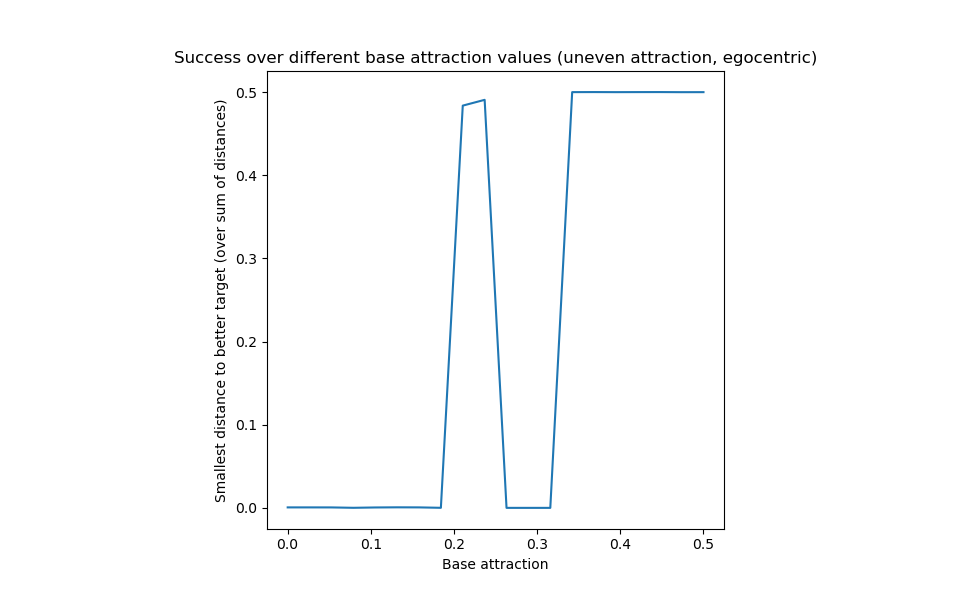
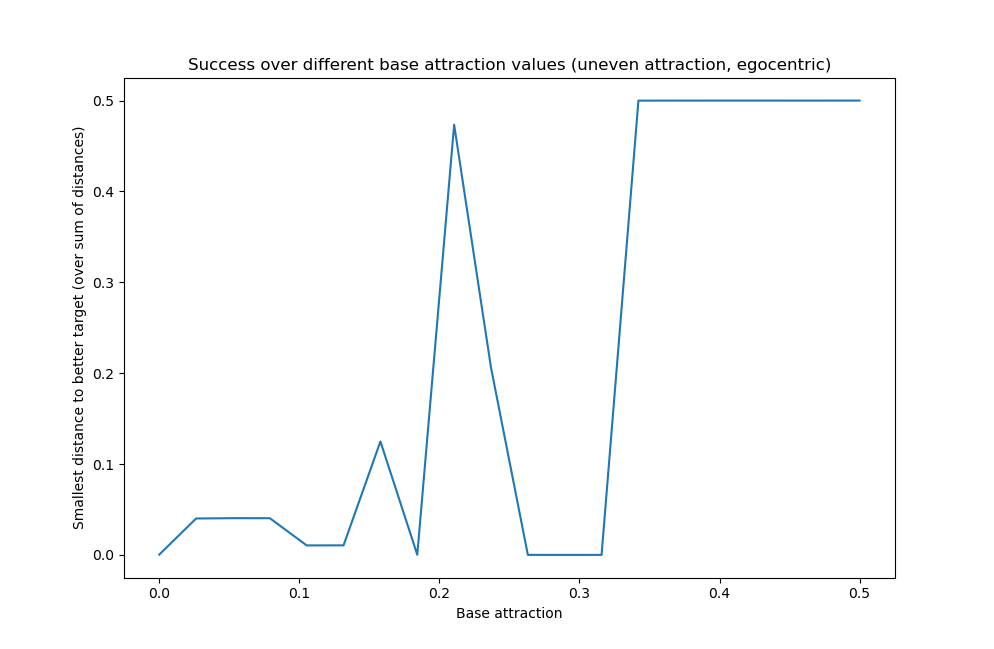
a few more plots

diff --git a/simulations.py b/simulations.py
@@ -84,7 +84,7 @@ allocentricFlag = [0]
 # attraction vector, first are attraction for targets, then agents
 h0s = [[0.45,0.46]]
 
-h_b = [0.2,0.21,0.22,0.23,0.24,0.25]
+h_b = [0.27,0.29,0.31,0.33,0.35,0.37]
 
 # width of the gauss bump 
 sigma = [0.5]
@@ -105,62 +105,46 @@ decision2_time = []
 # number of times to run the simulation
 n_samples = 20
 
+# controls whether or not we plot trajectories
+plot_traj = True
 # -------- Running the simulation --------
 
 # this is running the sim with a bunch of changes in variables
-
-plt.figure(1)
-plt.xlim(0, L)
-plt.ylim(0, L)
+x_trajs = np.zeros((6,51))
+y_trajs = np.zeros((6,51))
 for orientation in range(len(allocentricFlag)):
     for h in range(len(h0s)):
         h0 = h0s[h]
         for hb in range(len(h_b)):
-            plot_col = 'powderblue'
-            if hb == 1:
-                plot_col = 'deepskyblue'
-            if hb == 2:
-                plot_col = 'blue'
-            if hb == 3:
-                plot_col = 'navy'
-            if hb == 4:
-                plot_col = 'slateblue'
-            if hb == 5: 
-                plot_col = 'darkviolet'
             for s in range(len(sigma)):
                 for b in range(len(beta)):
-                    x_sums = np.zeros((1,51))
-                    y_sums = np.zeros((1,51))
+                    if plot_traj == True:
+                        x_sums = np.zeros((1,51))
+                        y_sums = np.zeros((1,51))
                     min_distance = []
                     for sim in range(n_samples):
-                        print(sim)
+                        print(f"sample number: {sim}")
                         headings, xPos, yPos, targetsx, targetsy = simulate_ringattractor.simulate_ring_attractor(N,L,T,ntargets,nagents,allocentricFlag[orientation],periodicflag,rEgo,rEgoTarget,Egonumber,
                                     distf,adistf,J,beta[b],h0,h_b[hb],dt,v0,v0t,sigma[s],hColl,rColl,
                                     initialx,initialy,initialxt,initialyt,False,False)
-                        success_measure = simulation_metrics.better_min_distance(xPos, yPos, targetsx, targetsy, True, 1)
-                        x_sliced = xPos[:,::100]
-                        y_sliced = yPos[:,::100]
-                        x_sums = x_sums + x_sliced
-                        y_sums = y_sums + y_sliced
+                        success_measure = simulation_metrics.get_min_distance(xPos, yPos, targetsx, targetsy, True, 1)
+                        if plot_traj == True:
+                            x_sliced = xPos[:,::100]
+                            y_sliced = yPos[:,::100]
+                            x_sums = x_sums + x_sliced
+                            y_sums = y_sums + y_sliced
                         min_distance.append(success_measure)
                     mean_distance.append(np.mean(min_distance))
-                    plt.scatter(
-                        x_sums/n_samples,
-                        y_sums/n_samples,
-                        s = 10,
-                        color = plot_col
-                    )
+            if plot_traj == True:
+                x_trajs[hb,:] = x_sums/n_samples
+                y_trajs[hb,:] = y_sums/n_samples
 
-                    plt.scatter(
-                        targetsx[:, 0],
-                        targetsy[:, 0],
-                        s = 10,
-                        marker = 's',
-                        c = [[0.8, 0, 0.2]], 
-                    )
-                    plt.title(f"Average trajectories: Allocentric:{allocentricFlag}, h0:{h0}, hb: {h_b}, beta: {beta}, sigma: {sigma}")
-                    plt.show(block=False)
-                    plt.pause(0.001)  
+# plotting the trajectories over a certain number of samples
+if plot_traj == True:
+    plt.figure(1)
+    simulation_metrics.plot_trajectories(x_trajs,y_trajs,initialxt,initialyt,
+                                     ['powderblue','deepskyblue','blue','navy','slateblue','darkviolet'],L,
+                                     "Average trajectories across hb values from 0.27 to 0.37 from 20 samples")
 
 
 # plot x axis as param of interest, plot y axis as success measure

diff --git a/simulation_metrics.py b/simulation_metrics.py
@@ -1,5 +1,6 @@
 import numpy as np
 from scipy.signal import find_peaks
+import matplotlib.pyplot as plt
 
 # -------- Getting metrics --------
 
@@ -90,39 +91,42 @@ def get_direction_info(headings, n_peaks, start_step=200, dest_step=5000):
     '''
     return top_n_peaks
 
-def get_min_distance(xPos, yPos, targetXpos, targetYpos, uneven=False, better_ind=-1):
-    '''
-    a function which takes the positions of the agent and targets
-    and computes the distance to each target at each step
-    and finds the minimum over all time steps of the minimum distance/sum of the distances
-    '''
-    ntargets = len(targetXpos[:,0])
-    tsteps = len(xPos[0,:])
-    min_over_sum = []
-    for i in range(tsteps):
-        dists = []
-        for t in range(ntargets):
-            # calc dist
-            dist = np.sqrt((xPos[0,i]-targetXpos[t,i])**2 + (yPos[0,i]-targetYpos[t,i])**2)
-            dists.append(dist)  
-        sum_dists = sum(dists)
-        # now either find min distance or distance to better target
-        min_dist = min(dists)
-        if uneven == True:
-            min_dist = dists[better_ind]
-        min_over_sum.append(min_dist/sum_dists)
-    total_min = min(min_over_sum)
-    return total_min
 
-def better_min_distance(xPos, yPos, targetXpos, targetYpos, uneven=False, better_ind=-1):
+def get_min_distance(xPos, yPos, targetXpos, targetYpos, uneven=False, better_ind=-1):
     tsteps = len(xPos[0,:])
     dists = np.sqrt((xPos[0, :] - targetXpos[:, :tsteps])**2 + 
                 (yPos[0, :] - targetYpos[:, :tsteps])**2)
     sum_dists = dists.sum(axis=0)
-
     min_dists = dists[better_ind] if uneven else dists.min(axis=0)
-
     min_over_sum = min_dists / sum_dists
-
     total_min = min_over_sum.min()
     return total_min
+
+def plot_trajectories(xtraj, ytraj, targetsx, targetsy, colors, L, title):
+    '''
+    plots n different trajectories in n different colors
+    xtraj: a n x t numpy array of x positions
+    ytraj a n x t numpy array of y positions
+    colors: a length n list of colors
+    L: length of the grid
+    '''
+    plt.xlim(0, L)
+    plt.ylim(0, L)
+    plt.scatter(
+            targetsx,
+            targetsy,
+            s = 10,
+            marker = 's',
+            c = [[0.8, 0, 0.2]], 
+        )
+    for traj in range(len(xtraj[:,0])):
+        plt.scatter(
+            xtraj[traj,:],
+            ytraj[traj,:],
+            s = 10,
+            color = colors[traj]
+        )
+    plt.title(title)
+    plt.show(block=False)
+    plt.pause(0.001)  
+
